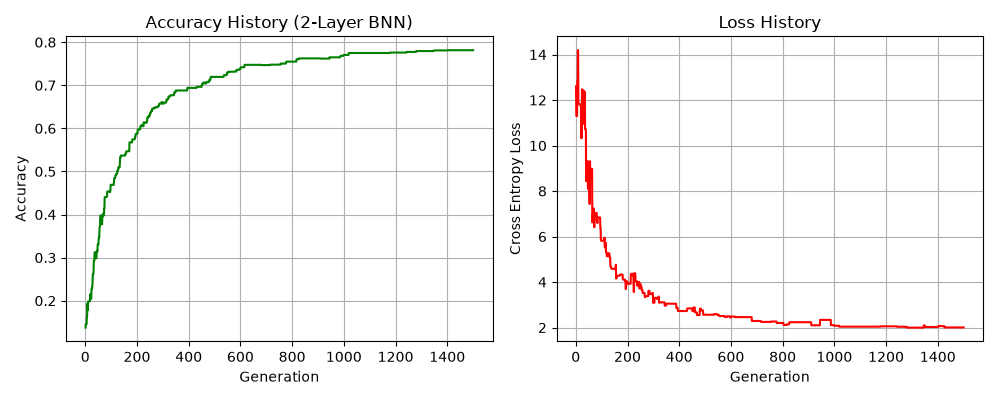
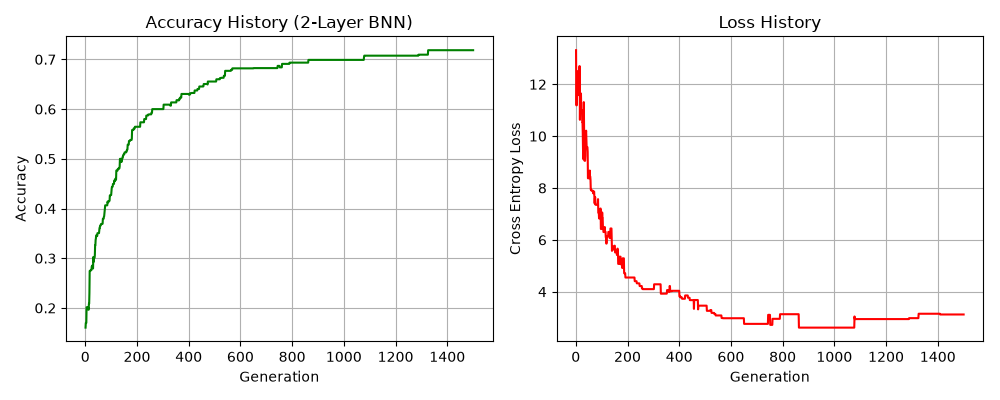
個体数の方が大事っぽいから32に戻す

diff --git a/script/binarize_ga.py b/script/binarize_ga.py
@@ -73,7 +73,7 @@ def genetic_algorithm(model, x_eval, y_eval):
     
     """
     islands = 10
-    models_per_island = 16
+    models_per_island = 32
     generation = 1500
     migration_interval = 50
     mutation_strength = 0.1
